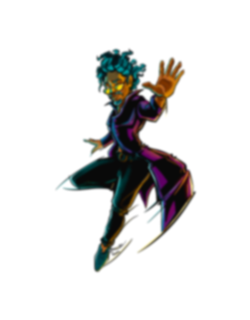
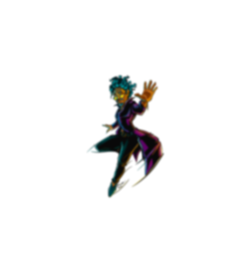
hero section: fixed the character not be squashed ad the initial load & fixed blur picture

Changed region(s): [[0.224, 0.1471, 0.784, 0.8529]]

diff --git a/styles/heroSection/headlines.module.scss b/styles/heroSection/headlines.module.scss
@@ -21,7 +21,7 @@ $matrixImgWidth500: 850px;
   min-height: 750px;
   height: 90vh;
   // !!!
-  width: 100vw;
+  // width: 100vw;
   display: flex;
   justify-content: center;
   align-items: center;
@@ -36,7 +36,7 @@ $matrixImgWidth500: 850px;
   justify-content: center;
   height: $matrixImgHeight;
   width: $matrixImgWidth;
-
+  // overflow: visible;
   margin: 0%;
   padding: 0%;
 }
@@ -51,8 +51,8 @@ $matrixImgWidth500: 850px;
 }
 
 .matrixGeorgiyImg {
-  height: $matrixImgHeight;
-  width: $matrixImgWidth;
+  // height: $matrixImgHeight;
+  // width: $matrixImgWidth;
   z-index: 3;
   margin: 0%;
   padding: 0%;
@@ -160,10 +160,10 @@ $matrixImgWidth500: 850px;
     width: $matrixImgWidth1200;
   }
 
-  .matrixGeorgiyImg {
-    height: $matrixImgHeight1200;
-    width: $matrixImgWidth1200;
-  }
+  // .matrixGeorgiyImg {
+  //   height: $matrixImgHeight1200;
+  //   width: $matrixImgWidth1200;
+  // }
 }
 
 @media all and (max-width: 900px) {
@@ -199,10 +199,10 @@ $matrixImgWidth500: 850px;
     height: $matrixImgHeight900;
     width: $matrixImgWidth900;
   }
-  .matrixGeorgiyImg {
-    height: $matrixImgHeight900;
-    width: $matrixImgWidth900;
-  }
+  // .matrixGeorgiyImg {
+  //   height: $matrixImgHeight900;
+  //   width: $matrixImgWidth900;
+  // }
 }
 
 @media all and (max-width: 750px) {
@@ -238,10 +238,10 @@ $matrixImgWidth500: 850px;
     height: $matrixImgHeight750;
     width: $matrixImgWidth750;
   }
-  .matrixGeorgiyImg {
-    height: $matrixImgHeight750;
-    width: $matrixImgWidth750;
-  }
+  // .matrixGeorgiyImg {
+  //   height: $matrixImgHeight750;
+  //   width: $matrixImgWidth750;
+  // }
 }
 
 @media all and (max-width: 500px) {
@@ -275,10 +275,10 @@ $matrixImgWidth500: 850px;
     height: $matrixImgHeight500;
     width: $matrixImgWidth500;
   }
-  .matrixGeorgiyImg {
-    height: $matrixImgHeight500;
-    width: $matrixImgWidth500;
-  }
+  // .matrixGeorgiyImg {
+  //   height: $matrixImgHeight500;
+  //   width: $matrixImgWidth500;
+  // }
 }
 
 @media all and (max-width: 350px) {
